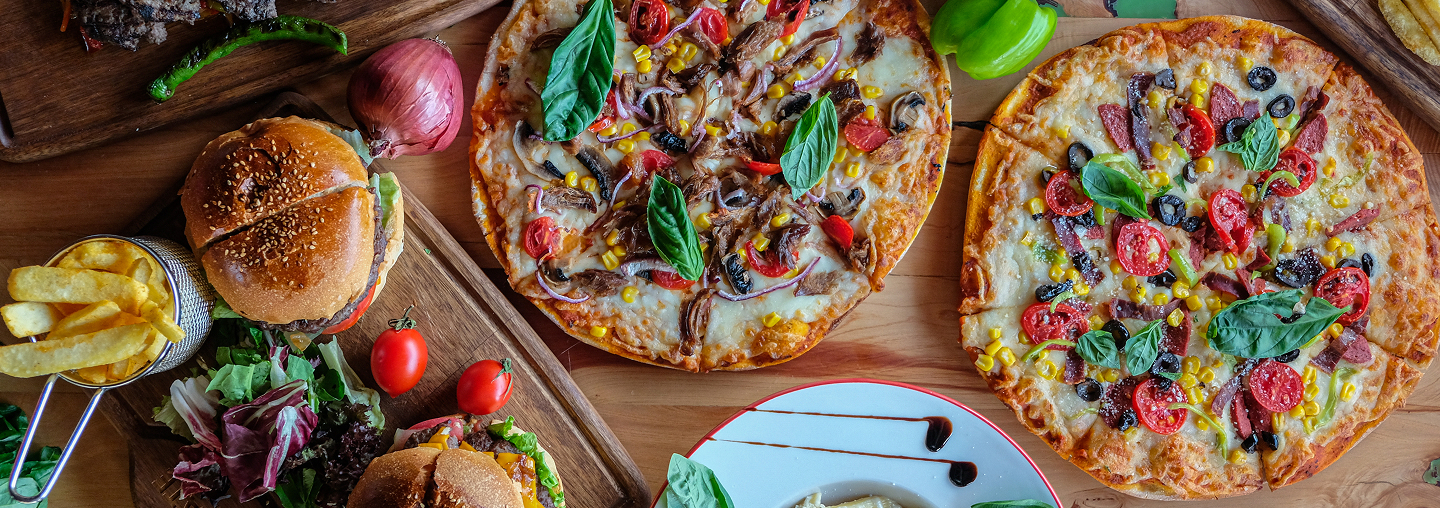
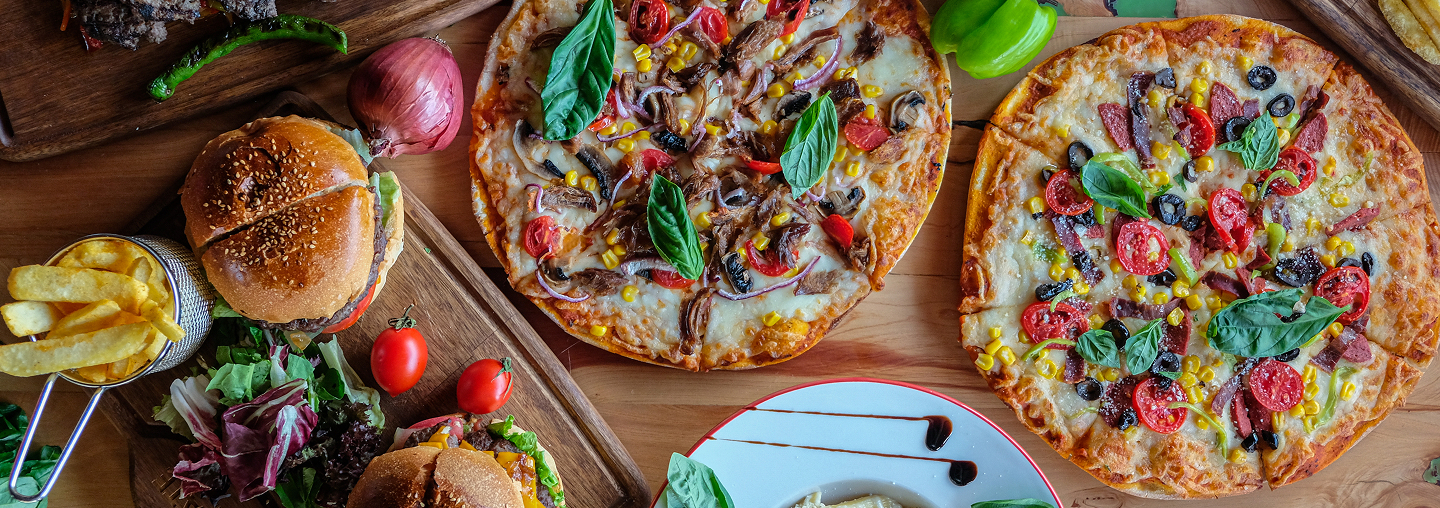
add Pizza array in db.js

diff --git a/scripts/db.js b/scripts/db.js
@@ -2,35 +2,87 @@ let dishes = [
     {
         "category": "Burger & Sandwiches",
         "name": "Veggie mushroom black burger",
-        "price": "15.90",
+        "price": "16.90",
         "indigredients": "Mixed green salad, Tomatoes, Edamame, Mushrooms",
-        "image": "./assets/img/veggie_mushroom_back_burger.svg"
+        "image": "./assets/img/veggie-mushroom-back-burger.jpg"
     },
     {
         "category": "Burger & Sandwiches",
         "name": "All meat burger",
         "price": "15.90",
         "indigredients": "Beef, Bacon, Dill pickles, Smoked cheese, Ketchup, BBQ souse",
-        "image": "./assets/img/all_meet_burger.svg"
+        "image": "./assets/img/all-meat-burger.jpg"
     },
     {
         "category": "Burger & Sandwiches",
         "name": "Beef red burger",
+        "price": "14.90",
         "indigredients": "Beef, Cheese, Tomatoes, Lettuce, Onion",
-        "image": "./assets/img/beef_red_burger.svg"
+        "image": "./assets/img/beef-red-burger.jpg"
     },
     {
         "category": "Burger & Sandwiches",
         "name": "Big chicken burger",
         "price": "15.90",
         "indigredients": "Chicken, Cheese, Tomatoes, Lettuce, Onion, Bell pepper",
-        "image": "./assets/img/big_chicken_burger.svg"
+        "image": "./assets/img/big-chicken-burger.jpg"
     },
+    // Pizza
     {
         "category": "Pizza",
         "name": "Pizza Margherita",
+        "price": "11.90",
+        "indigredients": "Tomato Sauce, Mozzarella",
+        "image": "./assets/img/pizza-margherita.jpg"
+    },
+    {
+        "category": "Pizza",
+        "name": "Pizza Chorizo",
+        "price": "13.90",
+        "indigredients": "Tomato slices, Mozzarella, Chorizo",
+        "image": "./assets/img/pizza-chorizo.jpg"
+    },
+    {
+        "category": "Pizza",
+        "name": "Funghi",
+        "price": "12.90",
+        "indigredients": "Red onion, Olives, Button Mushrooms, Mozzarella",
+        "image": "./assets/img/funghi.jpg"
+    },
+    {
+        "category": "Pizza",
+        "name": "Quattro Formaggi with Chicken",
         "price": "15.90",
-        "indigredients": "Chicken, Cheese, Tomatoes, Lettuce, Onion, Bell pepper",
-        "image": "./assets/img/big_chicken_burger.svg"
-    }
+        "indigredients": "Chicken, Mozzarella, Gorgonzola, Fontina,  Parmigiano Reggiano",
+        "image": "./assets/img/quattro-formaggi-with-chicken.jpg"
+    },
+    // Salat
+    {
+        "category": "Salad",
+        "name": "Warm beef arugula salad",
+        "price": "15.90",
+        "indigredients": "Chicken, Mozzarella, Gorgonzola, Fontina,  Parmigiano Reggiano",
+        "image": "./assets/img/quattro-formaggi-with-chicken.jpg"
+    },
+        {
+        "category": "Salad",
+        "name": "Quattro Formaggi with Chicken",
+        "price": "15.90",
+        "indigredients": "Chicken, Mozzarella, Gorgonzola, Fontina,  Parmigiano Reggiano",
+        "image": "./assets/img/quattro-formaggi-with-chicken.jpg"
+    },
+        {
+        "category": "Salad",
+        "name": "Quattro Formaggi with Chicken",
+        "price": "15.90",
+        "indigredients": "Chicken, Mozzarella, Gorgonzola, Fontina,  Parmigiano Reggiano",
+        "image": "./assets/img/quattro-formaggi-with-chicken.jpg"
+    },
+        {
+        "category": "Salad",
+        "name": "Quattro Formaggi with Chicken",
+        "price": "15.90",
+        "indigredients": "Chicken, Mozzarella, Gorgonzola, Fontina,  Parmigiano Reggiano",
+        "image": "./assets/img/quattro-formaggi-with-chicken.jpg"
+        }
 ]

diff --git a/index.html b/index.html
@@ -46,24 +46,22 @@
                 <div class="seperator-content">
                     <img src="./assets/img/burger_seperator.svg" alt="Burger">
                     <h2>Burger&Sandwiches</h2>
-
                 </div>
             </section>
+
             <section id="pizza-section">
                 <div class="seperator-content">
                     <img src="./assets/img/pizza_seperator.svg" alt="Burger">
                     <h2>Pizza</h2>
-
                 </div>
             </section>
+
             <section id="salat-section">
                 <div class="seperator-content">
                     <img src="./assets/img/salat_seperator.svg" alt="Burger">
                     <h2>Salat</h2>
-
                 </div>
             </section>
-
 
         </section>
     </main>